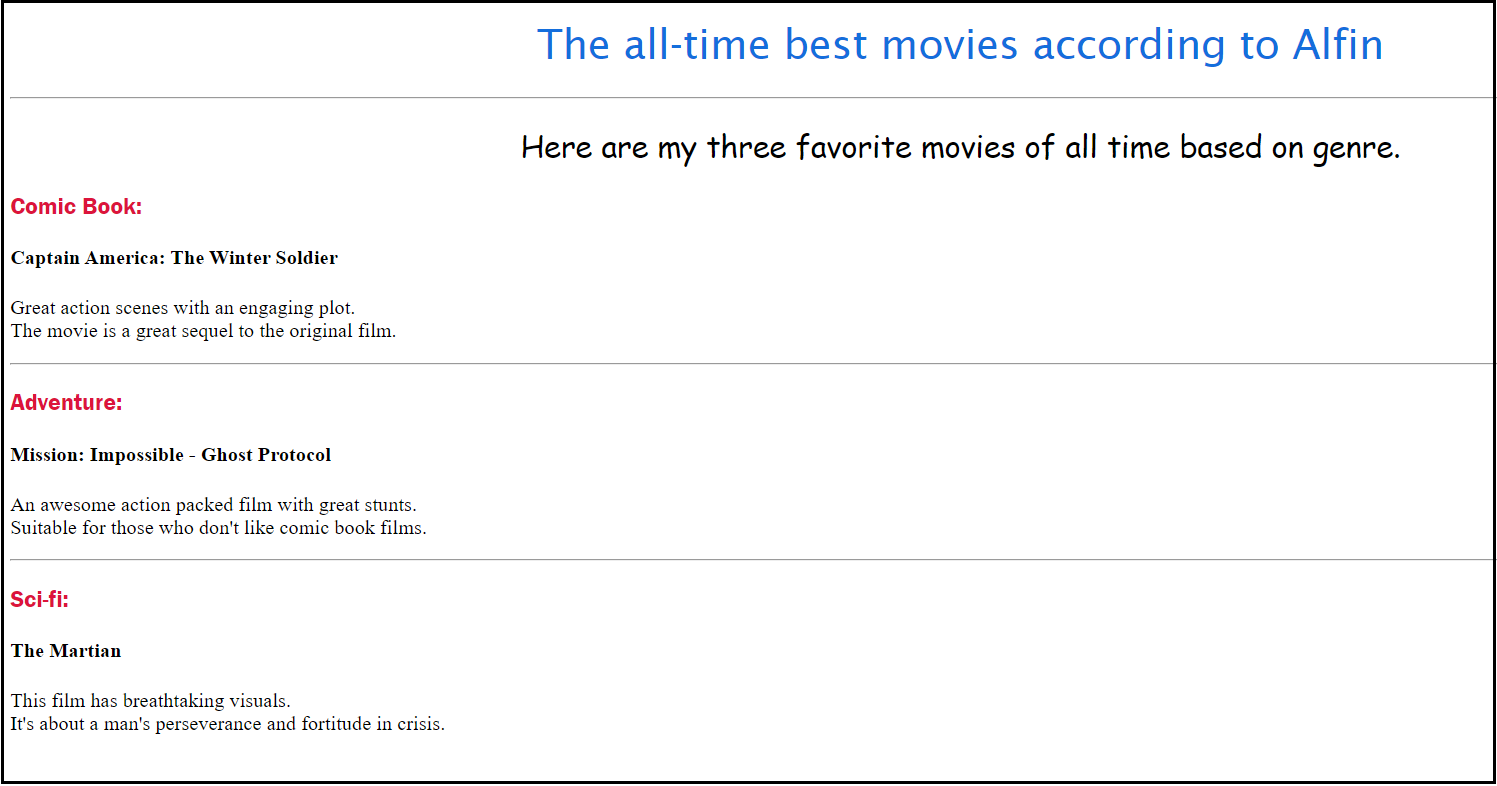
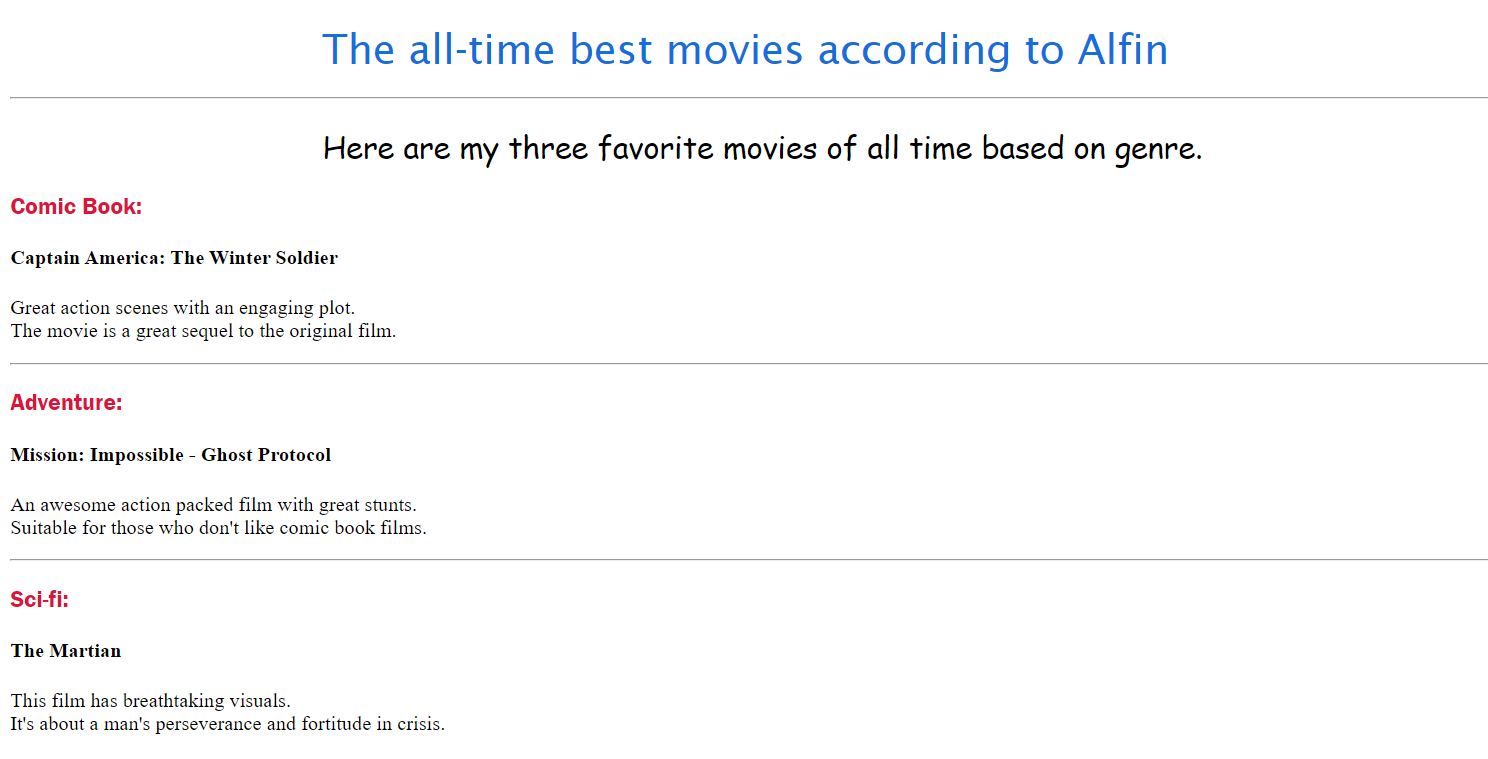
Added about_styles.css to style about me files

Changed region(s): [[0.0, 0.0, 1.0, 1.0]]

diff --git a/public/About Me/about.html b/public/About Me/about.html
@@ -4,22 +4,23 @@
     <meta charset="UTF-8">
     <meta name="viewport" content="width=device-width, initial-scale=1.0">
     <title>About Me</title>
+    <link rel="stylesheet" href="./about_styles.css">
   </head>
   <body>
-    <h1 style="font-family:'Lucida Sans', sans-serif; color: rgb(20, 110, 220); font-weight: 400;">About Me</h1>
-    <p style="font-size: large;">
+    <h1>About Me</h1>
+    <p>
       Hi, I'm Alfin.<br>
       I'm a graduate student pursuing my master's in Computer Science. <br>
       This portfolio showcases my take on assignments from a Udemy course that I'm taking this summer.<br> <br>
       The rules for this endeavor include:
-      <ol style="font-size: large;">
+      <ol>
         <li>I can only use what I have learned so far for each project.</li>
         <li>I have to devise ways to use everything I know for each new project.</li>
         <li>I can use concepts from external readings that I happen upon during my study if I deem them necessary in the project context.</li>
       </ol>
     </p>
     <br>
-    <p style="font-size: large;">
+    <p>
       Check back in from time to time to see my progress. I'm very excited about this new journey.
     </p>
   </body>

diff --git a/public/About Me/contact.html b/public/About Me/contact.html
@@ -4,10 +4,11 @@
     <meta charset="UTF-8">
     <meta name="viewport" content="width=device-width, initial-scale=1.0">
     <title>Contact Me</title>
+    <link rel="stylesheet" href="./about_styles.css">
   </head>
   <body>
-    <h1 style="font-family:'Lucida Sans', sans-serif; color: rgb(20, 110, 220); font-weight: 400;">Contact Me at:</h1>
-    <address style="font-size: large;">
+    <h1>Contact Me at:</h1>
+    <address>
       Email: <a href="mailto:alfinabraham01@gmail.com" target="_blank">alfinabraham01@gmail.com</a><br>
       LinkedIn: <a href="https://www.linkedin.com/in/alfin-abraham-4994481a2" target="_blank">Alfin</a><br><br>
       Do reach out to learn more about me, or tell me your favorite tips or tricks.

diff --git a/public/About Me/about_styles.css b/public/About Me/about_styles.css
@@ -1,0 +1,14 @@
+/* This file contains the CSS code for about.html and contact.html */
+h1 {
+    font-family:'Lucida Sans', sans-serif;
+    color: rgb(20, 110, 220);
+    font-weight: 400;
+}
+
+p, ol {
+    font-size: large;
+}
+
+address {
+    font-size: large;
+}
